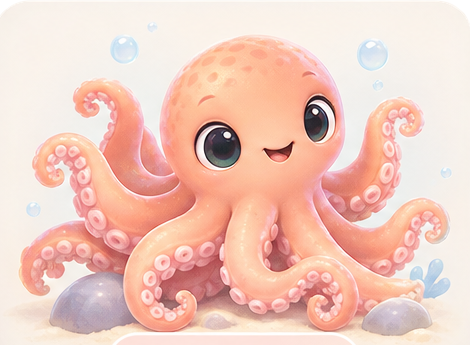
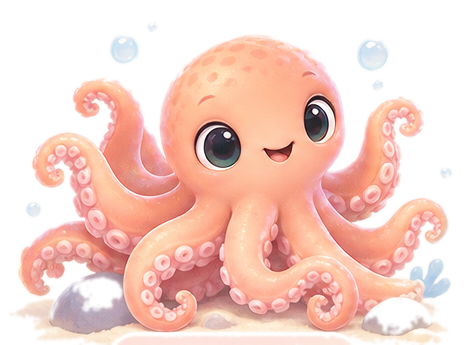
Add files via upload

diff --git a/homologacao/rc209-kids-neblina.js b/homologacao/rc209-kids-neblina.js
@@ -346,7 +346,7 @@
   const style=document.createElement('style');style.id='rc208-kids-collections';style.textContent=`
     .rc208-collections{display:grid;grid-template-columns:repeat(6,minmax(0,1fr));gap:7px;margin-top:14px}.rc208-collections button{border:1px solid rgba(83,77,88,.10);border-radius:16px;background:#fffaf5;padding:9px 5px;display:grid;gap:2px;color:#625b66}.rc208-collections button b{font-size:8px;letter-spacing:.08em;color:#9a919b}.rc208-collections button span{font-size:9.5px}.rc208-collections button.active{background:linear-gradient(135deg,color-mix(in srgb,var(--c1) 25%,#fff),color-mix(in srgb,var(--c2) 22%,#fff));box-shadow:0 0 0 2px color-mix(in srgb,var(--c1) 32%,transparent)}
     .rc208-library{display:grid;grid-template-columns:repeat(7,minmax(0,1fr));gap:7px;margin-top:13px}.rc208-library span{display:grid;gap:5px;text-align:center;align-content:start}.rc208-library i{width:58px;height:58px;border-radius:16px;background:#fffaf5;border:1px solid rgba(83,77,88,.08);display:grid;place-items:center;margin:auto;overflow:hidden}.rc208-library i svg{width:100%;height:100%}.rc208-library b{font-size:8px;font-weight:500;color:#746b76;line-height:1.2}.rc208-lock{font-size:8px;color:#8d8490;background:#f5f1ee;border-radius:999px;padding:4px 7px;margin-top:3px}.r197-acc.unlocked .rc208-lock{background:#edf6f1;color:#678071}.rc208-settings{grid-template-columns:repeat(4,minmax(0,1fr))!important}.r197-acc:not(.unlocked){opacity:.48!important}.r197-acc.unlocked{opacity:1!important}.r197-step.done>span{box-shadow:0 0 0 1px rgba(131,166,154,.25),0 7px 16px rgba(74,68,80,.06)}#r152FinishCycle:disabled{opacity:.45;pointer-events:none}.rc208-pet-proxy svg,.rc208-acc-proxy svg{width:100%;height:100%}
-    .rc278-ocean-pet{display:block;width:100%;height:100%;overflow:hidden!important;border-radius:18px;background:#fffaf5}.rc278-ocean-pet img{width:100%!important;height:100%!important;object-fit:cover!important;transform:none!important;border-radius:18px}
+    .rc278-ocean-pet{display:block;width:100%;height:100%;overflow:visible!important;border-radius:18px;background:transparent!important}.rc278-ocean-pet img{width:100%!important;height:100%!important;object-fit:contain!important;transform:none!important;border-radius:0!important}.rc278-ocean-pet img[src*="ocean_turtle"]{transform:scale(.94)!important}
     @media(max-width:700px){.rc208-collections{grid-template-columns:repeat(3,minmax(0,1fr))}.rc208-library{grid-template-columns:repeat(4,minmax(0,1fr))}.rc208-settings{grid-template-columns:1fr 1fr!important}}
     @media(max-width:480px){.rc208-library{grid-template-columns:repeat(3,minmax(0,1fr))}.rc208-settings{grid-template-columns:1fr!important}.r197-head h3{line-height:1.25}}
     .rc258-trail-card{margin-top:16px}.rc258-trail{overflow-x:auto;scrollbar-width:none}.rc258-trail::-webkit-scrollbar{display:none}.rc258-trail .r197-step{min-width:92px}.rc258-reward-art{display:block!important;width:84px!important;height:84px!important;border-radius:18px!important;overflow:hidden!important;background:#fffaf5!important}.rc258-reward-art img{display:block!important;width:100%!important;height:100%!important;object-fit:cover!important}.rc258-capsule{background:linear-gradient(110deg,rgba(231,216,255,.58),rgba(255,236,199,.55),rgba(214,241,230,.58))!important}
@@ -517,3 +517,4 @@
  `;
  document.head.appendChild(s);
 })();
+/* RC279 — Oceano: assets sem fundo + tartaruga discretamente menor. */

diff --git a/homologacao/index.html b/homologacao/index.html
@@ -610,7 +610,7 @@ body.bertha-hml::before{content:"HOMOLOGAÇÃO";position:fixed;z-index:99999;top
 <script src="ui-assets-v188.js?v=239"></script>
 <script src="rc196-sat-owner-helper.js?v=239"></script>
 <script src="rc207-kids-neblina.js?v=239"></script>
-<script src="rc209-kids-neblina.js?v=278"></script>
+<script src="rc209-kids-neblina.js?v=279"></script>
 <script src="routing-fix-v188.js?v=239"></script>
 <script src="rc220-kids-cycle-assets.js?v=239"></script>
 <script src="rc223-kids-rabbit-assets.js?v=239"></script>
